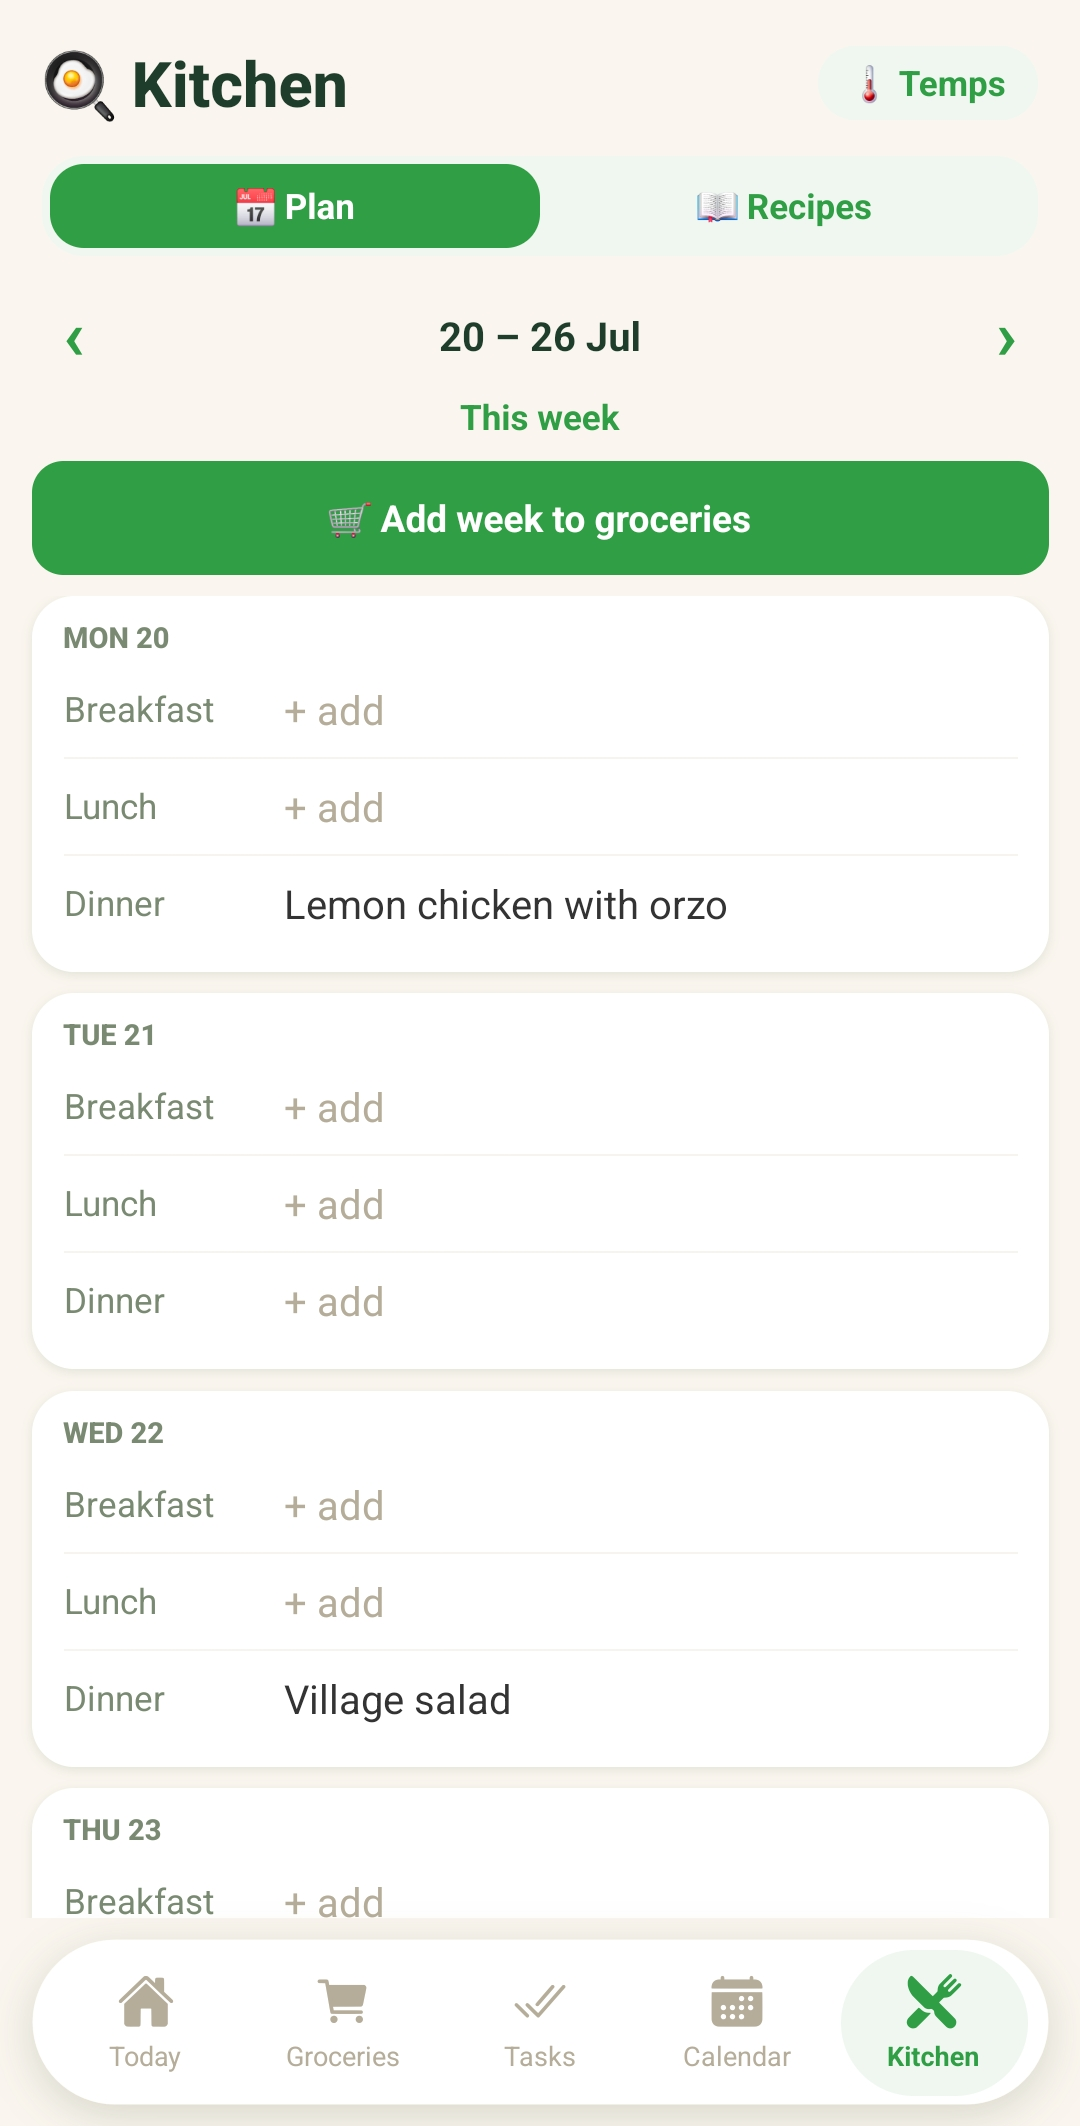
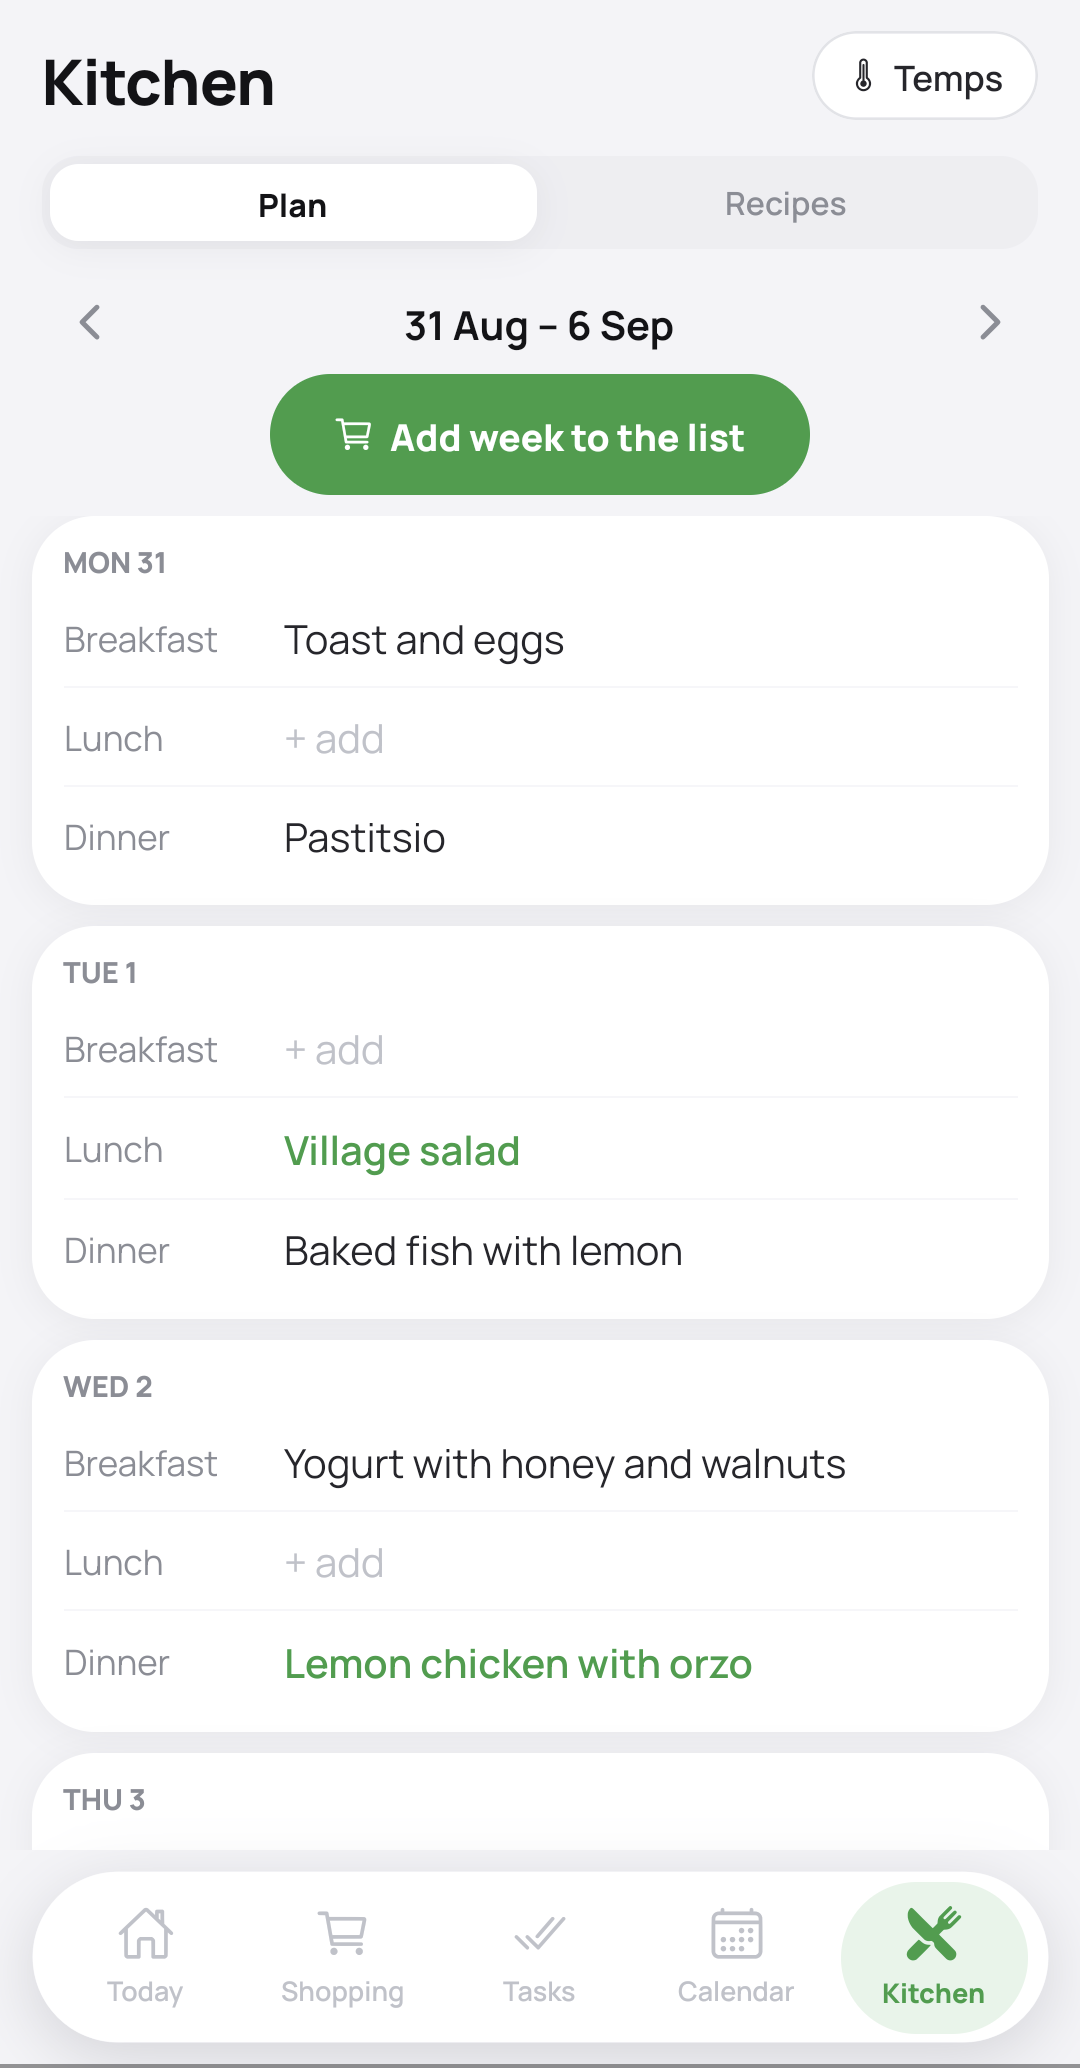
Show the app as it actually looks, and call the list Shopping
The frames on the page were the 2026-08-21 set, taken before the Calm Mazi
redesign, so every one of them showed an app that no longer exists, down to a
tab bar labelled Groceries. Replaced with the 09-05 reshoot at 1080x2068,
which also corrects the height the page declares, so each frame reserves the
right box while it loads.

Groceries becomes Shopping through the page, the same sweep the chores rename
got: title, meta description, og:description, the eyebrow and the Kitchen
copy. The shot beside that eyebrow now says Shopping in its own header and
tab, so the label had to move with it. Alt text rewritten to describe the
frames that are there, since the tasks one still claimed unclaimed tasks and
every task in the new shot is assigned.

Claude-Session: https://claude.ai/code/session_01VQqyWSgdp3roAY6Kp7oSYe

diff --git a/index.html b/index.html
@@ -3,11 +3,11 @@
 <head>
 <meta charset="utf-8">
 <meta name="viewport" content="width=device-width, initial-scale=1">
-<title>Mazí. Groceries, tasks, meals and the family calendar, shared in one place.</title>
-<meta name="description" content="Mazí keeps a household running without the group chat. A shared space for groceries, tasks, meal plans and the family calendar. Free for 30 days.">
+<title>Mazí. Shopping, tasks, meals and the family calendar, shared in one place.</title>
+<meta name="description" content="Mazí keeps a household running without the group chat. A shared space for the shopping list, tasks, meal plans and the family calendar. Free for 30 days.">
 <link rel="icon" type="image/png" href="./assets/icon.png">
 <meta property="og:title" content="Mazí">
-<meta property="og:description" content="Groceries, tasks, meals and the family calendar, shared in one place.">
+<meta property="og:description" content="Shopping, tasks, meals and the family calendar, shared in one place.">
 <meta property="og:image" content="https://meetmazi.com/assets/og-image.png">
 <meta property="og:url" content="https://meetmazi.com/">
 <meta property="og:type" content="website">
@@ -239,14 +239,14 @@
   <div class="wrap features">
     <section class="feature">
       <div>
-        <p class="eyebrow">🛒 Groceries</p>
+        <p class="eyebrow">🛒 Shopping</p>
         <h2>One list, sorted the way you shop.</h2>
         <p>A shared shopping list, organised by category and by shop. Tick items off as
         you go and watch the cart fill up. When a name is not enough, add a photo of the
         exact brand your partner actually meant.</p>
       </div>
       <figure class="phone">
-        <img src="./assets/screens/groceries.png" alt="Groceries list with Supermarket and Pharmacy shop filters" width="1080" height="2126" loading="lazy">
+        <img src="./assets/screens/shopping.png" alt="The shopping list grouped into bakery, dairy and household, with Supermarket and Pharmacy shop filters" width="1080" height="2068" loading="lazy">
       </figure>
     </section>
 
@@ -259,7 +259,7 @@
         today, instead of a stream of reminders.</p>
       </div>
       <figure class="phone">
-        <img src="./assets/screens/tasks.png" alt="The tasks screen with assigned and unclaimed tasks" width="1080" height="2126" loading="lazy">
+        <img src="./assets/screens/tasks.png" alt="The tasks screen, grouped into today, later and done, each task showing who it belongs to" width="1080" height="2068" loading="lazy">
       </figure>
     </section>
 
@@ -268,10 +268,10 @@
         <p class="eyebrow">🍽 Kitchen</p>
         <h2>From recipe to shopping list in one tap.</h2>
         <p>Keep the recipes your household actually cooks, plan the week's meals, and
-        send a recipe's ingredients straight to the grocery list.</p>
+        send a recipe's ingredients straight to the shopping list.</p>
       </div>
       <figure class="phone">
-        <img src="./assets/screens/kitchen.png" alt="The kitchen screen with the week's meal plan" width="1080" height="2126" loading="lazy">
+        <img src="./assets/screens/kitchen.png" alt="The kitchen screen with the week's meal plan and a button that adds the whole week to the shopping list" width="1080" height="2068" loading="lazy">
       </figure>
     </section>
 
@@ -283,7 +283,7 @@
         family calendar, colour-coded by who added it.</p>
       </div>
       <figure class="phone">
-        <img src="./assets/screens/calendar.png" alt="The shared family calendar with colour-coded events" width="1080" height="2126" loading="lazy">
+        <img src="./assets/screens/calendar.png" alt="The shared family calendar with colour-coded events" width="1080" height="2068" loading="lazy">
       </figure>
     </section>
   </div>
@@ -292,10 +292,10 @@
     <h2>At home in light and dark.</h2>
     <div class="theme-pair">
       <figure class="phone">
-        <img src="./assets/screens/today.png" alt="The Today screen in the light theme" width="1080" height="2126" loading="lazy">
+        <img src="./assets/screens/today.png" alt="The Today screen in the light theme, showing the day's events, tasks, meals and shopping progress" width="1080" height="2068" loading="lazy">
       </figure>
       <figure class="phone">
-        <img src="./assets/screens/today-dark.png" alt="The same screen in the dark theme" width="1080" height="2126" loading="lazy">
+        <img src="./assets/screens/today-dark.png" alt="The same Today screen in the dark theme" width="1080" height="2068" loading="lazy">
       </figure>
     </div>
   </section>
